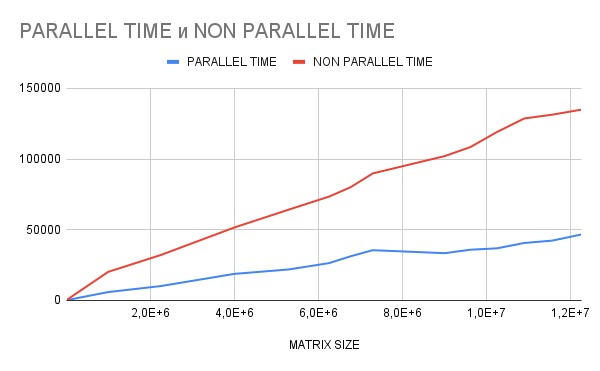
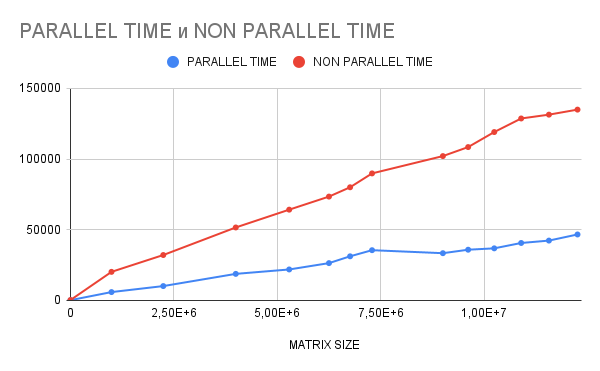
More beautiful plot, fixed make_plot.py

diff --git a/6sem/MPI/Labwork1/lab.cpp b/6sem/MPI/Labwork1/lab.cpp
@@ -22,7 +22,7 @@ int main(int argc, char** argv)
   if (rank == 0)
     start_time = clock();
 
-  int t_size = (int) (T_LIM / TAU), x_size = (int) (X_LIM / H);
+  int t_size = (int) (T_LIM / DT), x_size = (int) (X_LIM / DX);
 
   int start_number = rank * x_size / comm_size;
   int stop_number = (rank + 1) * x_size / comm_size - 1;
@@ -33,20 +33,20 @@ int main(int argc, char** argv)
     current_U[t] = new double[current_x_size + (rank == 0 ? 0 : 1)];  // Matrix in ranks greater than 0 will be 'crossed' with previos one in the beginning
 
   for (int x = 0; x < current_x_size + (rank == 0 ? 0 : 1); x++)  // Setting up values for initial time moment
-    current_U[0][x] = phi((x + start_number - (rank == 0 ? 0 : 1)) * H);
+    current_U[0][x] = phi((x + start_number - (rank == 0 ? 0 : 1)) * DX);
 
   for (int t = 1; t < t_size; t++)
   {
     if (rank == 0)  // Setting initial position in different times in rank 0
-      current_U[t][0] = psi(t * TAU);
+      current_U[t][0] = psi(t * DT);
     else  // Getting value from previous process and setting it into matrix as initial for this rank
       MPI_Recv(&(current_U[t][0]), 1, MPI_DOUBLE, rank-1, PREVIOUS_VALUE_TAG, MPI_COMM_WORLD, &status);
 
     for (int x = 1; x < current_x_size + (rank == 0 ? 0 : 1); x++)  // Calculating all values in row for this t
     {
-      current_U[t][x] = (2 * f(H * (x + 1/2), TAU * (t + 1/2)) -
-                        (1/TAU - 1/H) * (current_U[t][x-1] + current_U[t-1][x]) +
-                        (1/TAU + 1/H) * current_U[t - 1][x - 1]) / (1/TAU + 1/H);
+      current_U[t][x] = (2 * f(DX * (x + 1/2), DT * (t + 1/2)) -
+                        (1/DT - 1/DX) * (current_U[t][x-1] + current_U[t-1][x]) +
+                        (1/DT + 1/DX) * current_U[t - 1][x - 1]) / (1/DT + 1/DX);
     }
 
     if (rank != comm_size - 1)  // Sending last value to the next rank to make it start to work
@@ -86,4 +86,6 @@ int main(int argc, char** argv)
   }
 
   MPI_Finalize();
+
+  return 0;
 }

diff --git a/6sem/MPI/Labwork1/make_plot.py b/6sem/MPI/Labwork1/make_plot.py
@@ -5,10 +5,11 @@ from mpl_toolkits.mplot3d import Axes3D
 import re
 import numpy as np
 
-data = open('result_np.txt', 'r')
+data = open('result.txt', 'r')
 task = open('task.cpp', 'r')
 
 task_text = task.read()
+task.close()
 t_lim_founded = re.findall(r'T_LIM ?= ?([\d.]+)', task_text)
 x_lim_founded = re.findall(r'X_LIM ?= ?([\d.]+)', task_text)
 t_lim = float(t_lim_founded[0])
@@ -17,12 +18,14 @@ x_lim = float(x_lim_founded[0])
 DATA = []
 for line in data:
     DATA.append(list(map(float, line.split())))
+data.close()
 
 x_band = np.linspace(0, x_lim, len(DATA))
-y_band = np.linspace(0, t_lim, len(DATA[0]))
+t_band = np.linspace(0, t_lim, len(DATA[0]))
+y, x = np.meshgrid(t_band, x_band)
 data_band = np.array(DATA)
 
 fig = plt.figure()
 ax = fig.add_subplot(111, projection='3d')
-ax.plot_surface(x_band, y_band, data_band, cmap='inferno')
+ax.plot_surface(x, y, data_band, cmap='inferno')
 plt.savefig('result.png')

diff --git a/6sem/MPI/Labwork1/Admittance/admittance.cpp b/6sem/MPI/Labwork1/Admittance/admittance.cpp
@@ -1,0 +1,38 @@
+#include <mpi.h>
+#include <ctime>
+
+const int DEFAULT_TAG = 1;
+
+int main(int argc, char** argv)
+{
+  MPI_Init(&argc, &argv);
+
+  int rank = 0, size = 0;
+
+  MPI_Comm_size(MPI_COMM_WORLD, &size);
+  MPI_Comm_rank(MPI_COMM_WORLD, &rank);
+  MPI_Status status;
+  long int start_time = 0;
+  long int stop_time = 0;
+  int temp = 0;
+
+
+  if (rank == 0)
+  {
+      start_time = clock();
+      MPI_Send(&temp, 1, MPI_INT, rank + 1, DEFAULT_TAG, MPI_COMM_WORLD);
+      MPI_Recv(&temp, 1, MPI_INT, size - 1, DEFAULT_TAG, MPI_COMM_WORLD, &status);
+      stop_time = clock();
+      printf("Delivery time is %ld\n ", (stop_time - start_time) / size);
+  }
+
+  else
+  {
+      MPI_Recv(&temp, 1, MPI_INT, rank - 1, DEFAULT_TAG, MPI_COMM_WORLD, &status);
+      MPI_Send(&temp, 1, MPI_INT, (rank + 1)%size, DEFAULT_TAG, MPI_COMM_WORLD);
+  }
+
+  MPI_Finalize();
+
+  return 0;
+}

diff --git a/6sem/MPI/Labwork1/lab_np.cpp b/6sem/MPI/Labwork1/lab_np.cpp
@@ -11,10 +11,10 @@ void exportData(double x_lim, double h, double t_lim, double tau, double** U);
 int main(int argc, char** argv)
 {
   clock_t start_time = clock();
-  double** U = calculate(X_LIM, H, T_LIM, TAU, phi, psi, f);
+  double** U = calculate(X_LIM, DX, T_LIM, DT, phi, psi, f);
   clock_t stop_time = clock();
   printf("\x1b[1;33mNon-parallel run completed in %ld ms\x1b[0m\nWriting to file started\n", stop_time - start_time);
-  if (EXPORT_TO_FILE) exportData(X_LIM, H, T_LIM, TAU, U);
+  if (EXPORT_TO_FILE) exportData(X_LIM, DX, T_LIM, DT, U);
   return 0;
 }
 

diff --git a/6sem/MPI/Labwork1/task.cpp b/6sem/MPI/Labwork1/task.cpp
@@ -1,13 +1,13 @@
 #include <cmath>
 
 const double T_LIM = 10;
-const double TAU = 0.01;
+const double DT = 0.01;
 
 const double X_LIM = 10;
-const double H = 0.01;
+const double DX = 0.01;
 
 double f(double x, double t) { return 1; }
-double phi(double x) { return sin(2 * 3.14 * x); }
-double psi(double t) { return sqrt(t); }
+double phi(double x) { return sin(x) * x; }
+double psi(double t) { return 0; }
 
 const bool EXPORT_TO_FILE = true;
